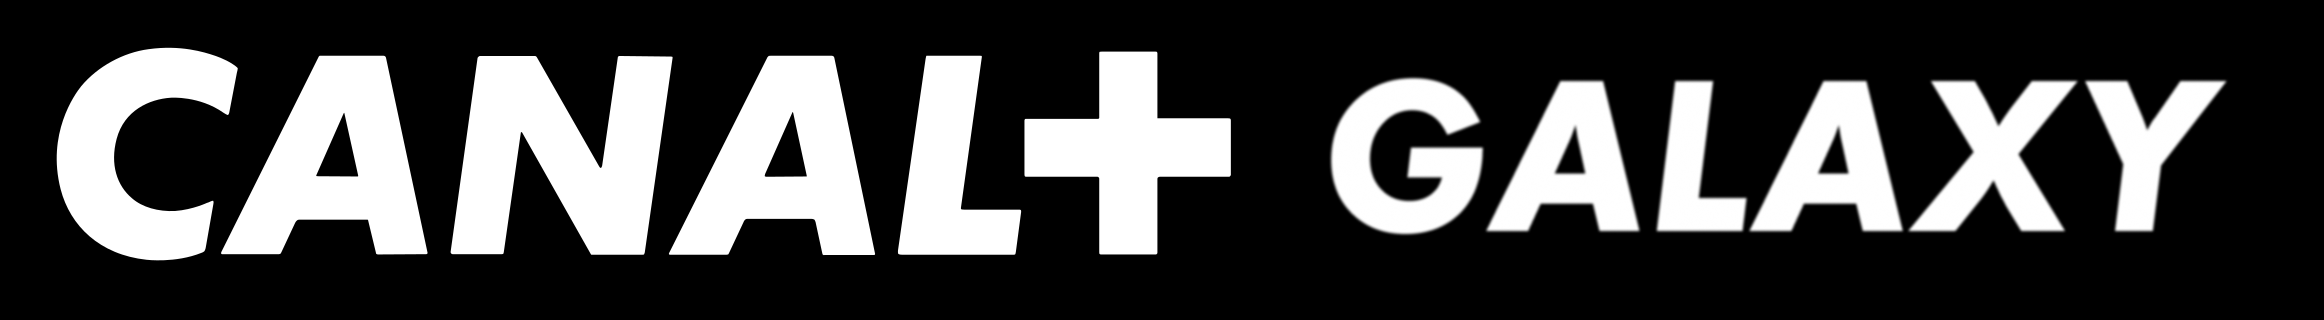
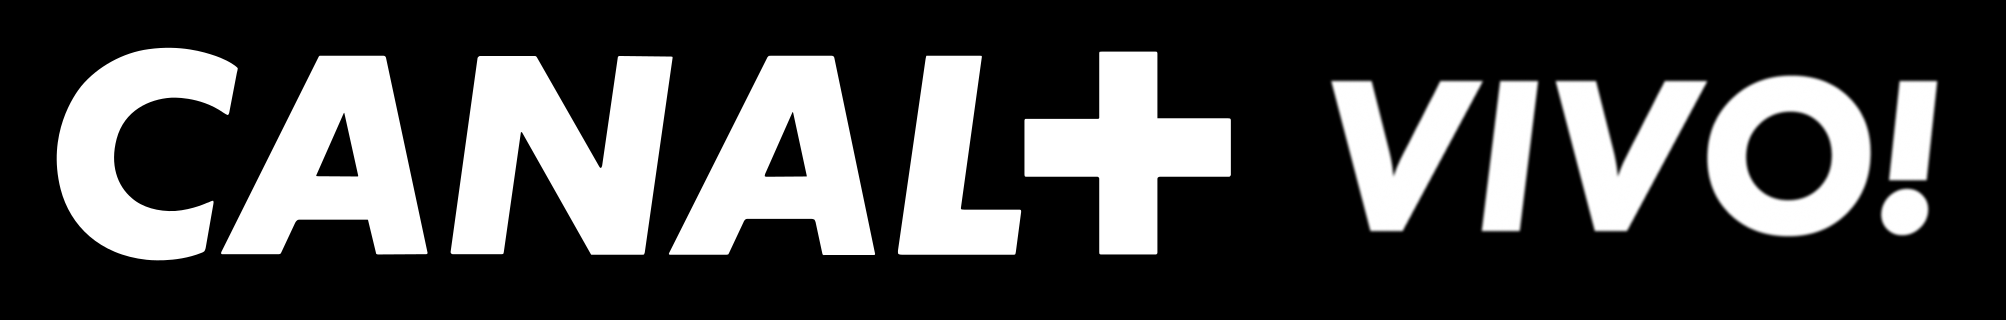
feat: modified content

Changed region(s): [[0.0, 0.125, 0.989, 0.8125]]

diff --git a/src/content/index.html b/src/content/index.html
@@ -4,11 +4,11 @@
     <meta charset="UTF-8" />
     <meta name="viewport" content="width=device-width, initial-scale=1.0" />
     <meta http-equiv="X-UA-Compatible" content="ie=edge" />
-    <title>Canal+ Salon Galaxy</title>
-    <meta name="description" content="Nowo otwarty Salon Canal+ w Galerii Galaxy. Oferujemy Telewizję, Internet i Telefon w najlepszych cenach na rynku" />
+    <title>Canal+ VIVO! Piła</title>
+    <meta name="description" content="Salon Canal+ VIVO! Oferujemy Telewizję, Internet i Telefon w najlepszych cenach na rynku" />
 
-    <meta property="og:title" content="Canal+ Salon Sczecin" />
-    <meta property="og:description" content="Canal+ Salon Sczecin" />
+    <meta property="og:title" content="Salon Canal+ VIVO! Piła" />
+    <meta property="og:description" content="Salon Canal+ VIVO! Piła" />
     <meta property="og:url" content="" />
     <meta property="og:image" content="" />
 
@@ -55,8 +55,8 @@
         <section class="salon" id="salon">
             <div class="salon__Container">
               <div class="salon__photoContainer"><img src="assets/img/salonCanal.jpg" ref="our Salon Canal+" class="salon__img"></div>
-              <h1 class="salon__header">Salon Canal+ w Galaxy Szczecin</h1>
-              <p class="salon__content">Zapraszamy Państwa do nowo otwartego Salonu Canal+ w Galerii Galaxy.</p>
+              <h1 class="salon__header">Salon Canal+ VIVO! Piła</h1>
+              <p class="salon__content">Zapraszamy Państwa do Salonu Canal + w Galerii Vivo!</p>
             </div>
         
         </section>
@@ -66,7 +66,7 @@
         <section class="oferta" id="oferta">
             <div class="oferta__description">
               <p class="oferta__header">Oferta</p>
-              <p class="oferta__content">Oferta CANAL+ to 12 kanałów premium, nieprzerywanych reklamami. Ponad 1000 premier filmów i seriali rocznie oraz ponad 2500 godzin transmisji sportowych na żywo. Największe hity filmowe i serialowe po raz pierwszy w telewizji. Nagradzane kino prosto z Hollywood i najnowsze polskie hity. Różnorodność gatunków. Najwięksi reżyserzy i aktorzy. Autorskie programy, relacje na żywo z największych wydarzeń w świecie filmu (Gala Oscarowa®, Gala Cezarów, MFF w Cannes).</p>
+              <p class="oferta__content">Oferta CANAL plus to 12 kanałów premium, nieprzerywanych reklamami. Ponad 1000 premier filmów i seriali rocznie oraz ponad 2500 godzin transmisji sportowych na żywo. Największe hity filmowe i serialowe po raz pierwszy w telewizji. Nagradzane kino prosto z Hollywood i najnowsze polskie hity. Różnorodność gatunków. Najwięksi reżyserzy i aktorzy. Autorskie programy, relacje na żywo z największych wydarzeń w świecie filmu (Gala Oscarowa®, Gala Cezarów, MFF w Cannes).</p>
             </div>
           </section>
           
@@ -75,12 +75,12 @@
           <section class="dojazd" id="dojazd">
               <div class="dojazd__Container">
                   <p class="dojazd__header">Dojazd</p>
-                  <p class="dojazd__content"><span class="dojazd__boldContent">tramwaje:</span> 1, 2, 3, 5, 10 , 11, 12, 13</p>
-                  <p class="dojazd__content"><span class="dojazd__boldContent">linie autobusowe dzienne zwykłe:</span> 58, 59, 68, 101, 107</p>
-                  <p class="dojazd__content"><span class="dojazd__boldContent">linie autobusowe dzienne pospieszne:</span> A, B, C, C BIS, D, F, G</p>
-                  <p class="dojazd__content"><span class="dojazd__boldContent">linie autobusowe nocne:</span> 522, 523, 524, 525, 529, 530, 532</p>
+              
+                  <p class="dojazd__content"><span class="dojazd__boldContent">Autobusem/pociągiem -</span> Dworzec Główny jest zaraz obok (rozkład <a class="pkpLink" href="http://rozklad-pkp.pl/pl/sq?ld=s28&input=5100049&boardType=&date=&dateStart=&dateEnd=&REQ0JourneyDate=&time=&REQ0JourneyTime=&maxJourneys=15&productsFilter=0&showAdvancedProductMode=yes&start=yes">PKP</a> lub <a class="pkpLink" href="https://pkspila.pl/">PKS</a>).</p>
+                  <p class="dojazd__content"><span class="dojazd__boldContent">Samochodem -</span> Skrzyżowanie ulic Zygmunta Starego i 14-ego Lutego w ścisłym centrum miasta.</p>
+                  
                 </div>
-              <div class="dojazd__mapContainer"><iframe src="https://www.google.com/maps/embed?pb=!1m14!1m8!1m3!1d9507.64972190477!2d14.554717!3d53.434274!3m2!1i1024!2i768!4f13.1!3m3!1m2!1s0x0%3A0x83b9f9697c7bb2b0!2sSALON%20CANAL%2BGALAXY!5e0!3m2!1spl!2spl!4v1570044548142!5m2!1spl!2spl" width="1000" height="450" frameborder="0" style="border:0;" allowfullscreen=""></iframe></div>
+              <div class="dojazd__mapContainer"><iframe src="https://www.google.com/maps/embed?pb=!1m14!1m8!1m3!1d9572.330872513297!2d16.74488!3d53.14461!3m2!1i1024!2i768!4f13.1!3m3!1m2!1s0x0%3A0x45e5be2c8de1b1d7!2sSalon%20Canal%2B%20VIVO*21%20Pi%C5%82a!5e0!3m2!1spl!2spl!4v1570882480683!5m2!1spl!2spl" width="1000" height="450" frameborder="0" style="border:0;" allowfullscreen=""></iframe></div>
               
           
           </section>
@@ -96,27 +96,27 @@
               <div class="flex__iteam flex__iteam1">
                 <img  src="assets/img/hauseIcon.png" alt="contact icon">
                 <p class="kontakt__descriptionHeader">Adres</p>
-                <p class="kontakt__description">aleja Wyzwolenia 18/20</p>
-                <p class="kontakt__description">70-532 Szczecin</p>
+                <p class="kontakt__description">14 Lutego 26</p>
+                <p class="kontakt__description">64-920 Piła</p>
               </div>
 
               <div class="flex__iteam flex__iteam2">
                   <img  src="assets/img/phoneIcon.png" alt="phone icon">
                   <p class="kontakt__descriptionHeader">Telefon</p>
-                  <p class="kontakt__description">579400712</p>
+                  <p class="kontakt__description">576029524</p>
               </div>
 
               <div class="flex__iteam flex__iteam3">
                   <img  src="assets/img/mailIcon.png" alt="mail icon">
                   <p class="kontakt__descriptionHeader">Mail</p>
-                  <p class="kontakt__description">salon@canalplus.szczecin.pl</p>
+                  <p class="kontakt__description">salon@canalplus.pila.pl</p>
               </div>
 
               <div class="flex__iteam flex__iteam4">
                   <img  src="assets/img/cloclIcon.png" alt="clock icon">
                   <p class="kontakt__descriptionHeader">Godziny</p>
                   <p class="kontakt__description">poniedziałek-sobota</p>
-                  <p class="kontakt__description">9:00-21:00</p>
+                  <p class="kontakt__description">10:00-21:00</p>
               </div>
               
             </div>
@@ -126,9 +126,9 @@
   </section>
     <footer class="footer">
       <p class="footer__text">Śledź nas na :</p>
-      <a class="footer__fbIconContainer" href="https://www.facebook.com/Canal-Szczecin-Galaxy-103485014389759/"><img src="assets/img/fbIcon.png" ref="fb icon" width="45" height="45"> </a>
+      <a class="footer__fbIconContainer" href="https://www.facebook.com/pages/category/Local-Service/NC-VIVO-1778612259072226/"><img src="assets/img/fbIcon.png" ref="fb icon" width="45" height="45"> </a>
       
-      <a class="footer__instaIconContainer" href="https://www.instagram.com/canalplus_szczecingalaxy/?fbclid=IwAR1Si_dXjvywUcZ2qS0tqBmZ4ZXbYVJ31TVDQg7QtPgj34LGkJlRic9_SgM"><img src="assets/img/instaIcon.png" ref="insta icon" width="41" height="41"> </a>
+      
     </footer>
 
     <script src="js/main.js"></script>

diff --git a/src/scss/main.scss b/src/scss/main.scss
@@ -18,8 +18,22 @@ a:link {
   text-decoration: none;
 }
 
+a.pkpLink:link  {
+  color:  #888888;
+  font-family:'Poppins', sans-serif;
+  font-style: normal;
+  text-decoration: none;
+}
+
 a:visited {
   color: white;
+  font-family: 'Poppins', sans-serif;
+    font-style: normal;
+  text-decoration: none;
+}
+
+a.pkpLink:visited {
+  color: #888888;
   font-family: 'Poppins', sans-serif;
     font-style: normal;
   text-decoration: none;
@@ -214,6 +228,10 @@ iframe {
   }
    
   
+}
+
+.pkpLink{
+  color:#888888;
 }
 
 .salon{
